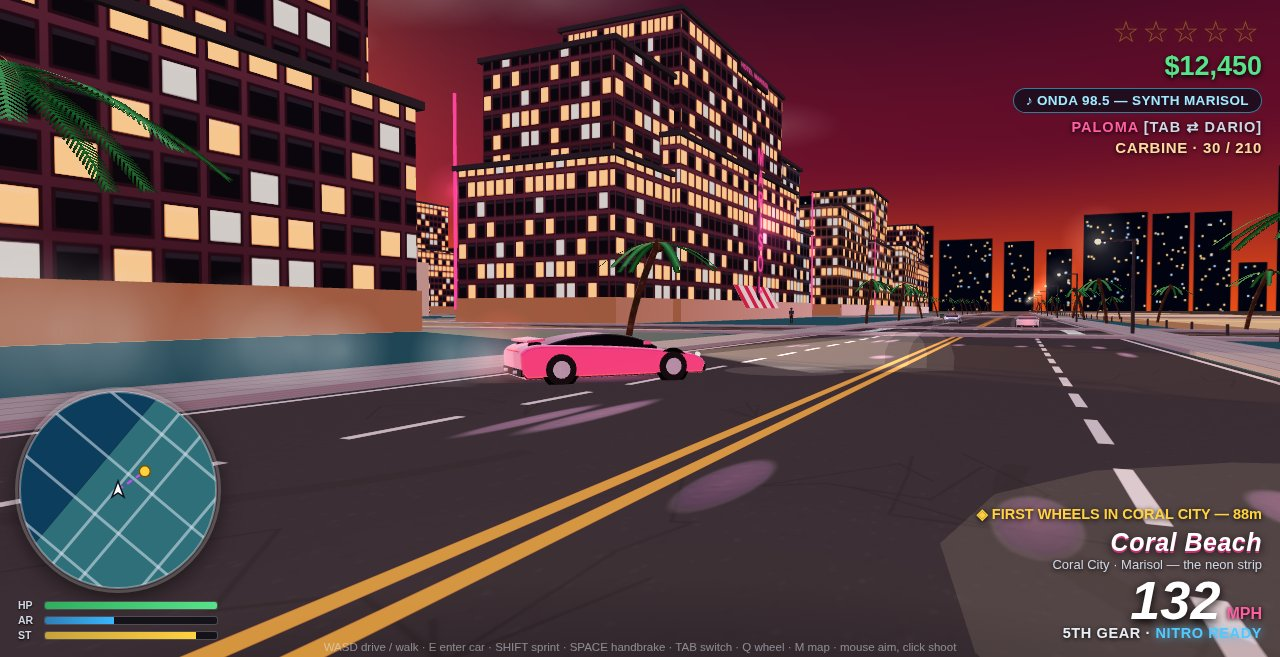
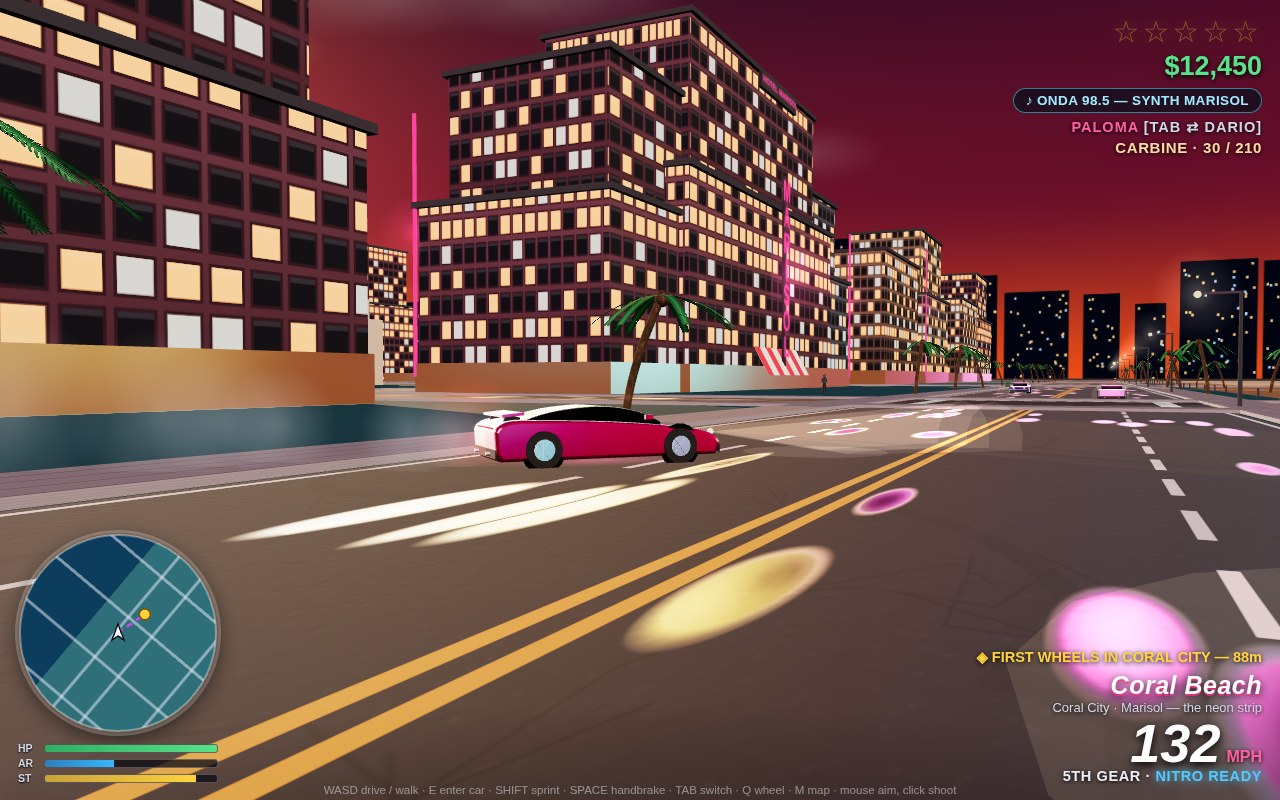
Reflections pass: PMREM-filtered neon environment (buildEnvironmentReflections) replaces the raw cube env; mirror-grade puddles, hotter neon env cards, paint/road envMapIntensity retune — neon now reads on clearcoat and wet asphalt in cover + chase

diff --git a/game/src/world.js b/game/src/world.js
@@ -49,15 +49,15 @@ function asphaltSet() {
     g.stroke();
   }
   // puddles: slightly dark on the colour map, low roughness on the rough map (damp sheen)
-  for (let i = 0; i < 10; i++) {
-    const x = rnd() * 1024, y = 90 + rnd() * 844, rx = 26 + rnd() * 58, ry = 10 + rnd() * 16;
+  for (let i = 0; i < 16; i++) {
+    const x = rnd() * 1024, y = 90 + rnd() * 844, rx = 44 + rnd() * 76, ry = 14 + rnd() * 22;
     g.save(); g.translate(x, y); g.scale(1, ry / rx); g.translate(-x, -y);
     const gr = g.createRadialGradient(x, y, 2, x, y, rx);
     gr.addColorStop(0, 'rgba(16,20,28,0.5)'); gr.addColorStop(1, 'rgba(16,20,28,0)');
     g.fillStyle = gr; g.beginPath(); g.arc(x, y, rx, 0, 7); g.fill(); g.restore();
     rg.save(); rg.translate(x, y); rg.scale(1, ry / rx); rg.translate(-x, -y);
     const rr = rg.createRadialGradient(x, y, 2, x, y, rx);
-    rr.addColorStop(0, 'rgb(58,58,58)'); rr.addColorStop(0.7, 'rgb(95,95,95)'); rr.addColorStop(1, 'rgb(168,168,168)');
+    rr.addColorStop(0, 'rgb(16,16,16)'); rr.addColorStop(0.7, 'rgb(52,52,52)'); rr.addColorStop(1, 'rgb(168,168,168)');
     rg.fillStyle = rr; rg.beginPath(); rg.arc(x, y, rx, 0, 7); rg.fill(); rg.restore();
   }
   // markings (v axis = across the road): solid edges, dashed lane lines, double yellow centre
@@ -213,28 +213,43 @@ const MOODS = {
 };
 MOODS.evening = MOODS.dusk;
 
+/* ---------------- PMREM neon environment ---------------- */
+// A tiny dedicated env scene (sunset gradient dome, dark ground, a ring of hot neon
+// cards and one warm sunset blaze) run through PMREMGenerator, so car clearcoat,
+// glass and the wet asphalt pick up soft, blurred NEON reflections — not a raw cube.
+export function buildEnvironmentReflections(renderer, scene) {
+  const env = new THREE.Scene();
+  const [c, g] = cnv(64, 256);
+  const gr = g.createLinearGradient(0, 0, 0, 256);
+  gr.addColorStop(0, '#2c2a5e'); gr.addColorStop(0.52, '#a83e70'); gr.addColorStop(0.78, '#ff9e4f'); gr.addColorStop(1, '#171114');
+  g.fillStyle = gr; g.fillRect(0, 0, 64, 256);
+  const domeTex = tex(c); domeTex.wrapS = domeTex.wrapT = THREE.ClampToEdgeWrapping;
+  env.add(new THREE.Mesh(new THREE.SphereGeometry(60, 24, 16), new THREE.MeshBasicMaterial({ map: domeTex, side: THREE.BackSide })));
+  const gnd = new THREE.Mesh(new THREE.CircleGeometry(58, 24), new THREE.MeshBasicMaterial({ color: 0x0b0d13 }));
+  gnd.rotation.x = -Math.PI / 2; gnd.position.y = -3; env.add(gnd);
+  const card = (w, h, x, y, z, rgb) => {
+    const m = new THREE.Mesh(new THREE.PlaneGeometry(w, h), new THREE.MeshBasicMaterial({ side: THREE.DoubleSide }));
+    m.material.color.setRGB(rgb[0], rgb[1], rgb[2]);
+    m.position.set(x, y, z); m.lookAt(0, y, 0); env.add(m);
+  };
+  const NEON = [[11, 0.8, 5.4], [0.6, 8.6, 10], [11, 6.7, 0.6], [9, 1.4, 7], [0.8, 10, 8.3], [10, 5.4, 1.1]];
+  for (let i = 0; i < 12; i++) {
+    const a = (i / 12) * Math.PI * 2, r = 42;
+    card(7 + (i % 3) * 3, 13 + (i % 4) * 4, Math.cos(a) * r, 7 + (i % 3) * 3, Math.sin(a) * r, NEON[i % NEON.length]);
+  }
+  card(46, 15, -34, 5.5, -21, [12, 8.2, 4.8]); // sunset blaze, toward the mood sun direction
+  const pmrem = new THREE.PMREMGenerator(renderer);
+  scene.environment = pmrem.fromScene(env, 0.04).texture;
+  pmrem.dispose();
+}
+
 /* ---------------- the build ---------------- */
 export function buildProceduralCoralCity(scene, rng) {
   const colliders = [];
   const addCollider = (x0, z0, x1, z1) => colliders.push({ x0, z0, x1, z1 });
   const dyn = { winMats: [], lampGlow: null, lampPool: null, water: null, clouds: [], neonSigns: [] };
 
-  // soft studio-sky reflections for paint, glass and wet stone (canvas cube, no network)
-  {
-    const faces = [];
-    for (let i = 0; i < 6; i++) {
-      const [c, g] = cnv(64, 64);
-      const gr = g.createLinearGradient(0, 0, 0, 64);
-      if (i === 2) { gr.addColorStop(0, '#ffe0b0'); gr.addColorStop(1, '#c86a8a'); }
-      else if (i === 3) { gr.addColorStop(0, '#141824'); gr.addColorStop(1, '#0a0c12'); }
-      else { gr.addColorStop(0, '#7a5aa8'); gr.addColorStop(0.55, '#c85a7a'); gr.addColorStop(1, '#ff9e4f'); }
-      g.fillStyle = gr; g.fillRect(0, 0, 64, 64);
-      faces.push(c);
-    }
-    const cube = new THREE.CubeTexture(faces);
-    cube.needsUpdate = true;
-    scene.environment = cube;
-  }
+  // reflections: scene.environment comes from buildEnvironmentReflections (PMREM neon env, main.js)
 
   // sky dome: gradient + sun disc in one shader
   const skyUni = {
@@ -345,8 +360,8 @@ export function buildProceduralCoralCity(scene, rng) {
 
   /* ---- roads: wet asphalt tiles with markings following each segment ---- */
   const asphalt = asphaltSet();
-  const roadMat = new THREE.MeshStandardMaterial({ map: asphalt.map, roughnessMap: asphalt.rough, roughness: 1.0, metalness: 0.32, bumpMap: asphalt.bump, bumpScale: 0.6, envMapIntensity: 0.9 });
-  const plainAsphalt = new THREE.MeshStandardMaterial({ color: 0x2a2b30, roughness: 0.6, metalness: 0.25, envMapIntensity: 0.6 });
+  const roadMat = new THREE.MeshStandardMaterial({ map: asphalt.map, roughnessMap: asphalt.rough, roughness: 1.0, metalness: 0.32, bumpMap: asphalt.bump, bumpScale: 0.6, envMapIntensity: 1.25 });
+  const plainAsphalt = new THREE.MeshStandardMaterial({ color: 0x2a2b30, roughness: 0.6, metalness: 0.25, envMapIntensity: 0.45 });
   function roadStrip(len, wid, x, z, alongX) {
     const geo = new THREE.PlaneGeometry(len, wid);
     const uv = geo.attributes.uv;

diff --git a/game/src/main.js b/game/src/main.js
@@ -7,7 +7,7 @@ import { GAME_TITLE, SAVE_KEY, STEP, TUNING, RADIO_STATIONS, WEAPONS } from './c
 import { createRandom } from './random.js';
 import { createInput } from './input.js';
 import { initProceduralWebAudioEngine } from './audio.js';
-import { buildProceduralCoralCity, districtAt, roadGraph } from './world.js';
+import { buildProceduralCoralCity, buildEnvironmentReflections, districtAt, roadGraph } from './world.js';
 import { createVehicle, createTraffic, updateVehicleArcadePhysics } from './vehicles.js';
 import { PROTAGONISTS, createPersonMesh, createPedestrians, updateThirdPersonCharacter, updateEffects, bindProtagonistSwitch, switchActiveProtagonist } from './people.js';
 import { createWantedState, updateWantedHeatSystem, createPoliceFleet, updatePolicePursuitAI } from './police.js';
@@ -29,6 +29,7 @@ renderer.outputColorSpace = THREE.SRGBColorSpace;
 document.getElementById('app').appendChild(renderer.domElement);
 
 const scene = new THREE.Scene();
+buildEnvironmentReflections(renderer, scene);
 const camera = new THREE.PerspectiveCamera(62, window.innerWidth / window.innerHeight, 0.1, 6000);
 camera.position.set(430, 6, -20);
 window.addEventListener('resize', () => {

diff --git a/game/src/vehicles.js b/game/src/vehicles.js
@@ -93,7 +93,7 @@ function buildWheel() {
 export function createDetailedVehicleMesh(type, color) {
   const spec = VEHICLE_CATALOG[type] || VEHICLE_CATALOG.sedan;
   const grp = new THREE.Group();
-  const paint = new THREE.MeshPhysicalMaterial({ color: color ?? spec.color, metalness: 0.85, roughness: 0.15, clearcoat: 1, clearcoatRoughness: 0.08, envMapIntensity: 1.15 });
+  const paint = new THREE.MeshPhysicalMaterial({ color: color ?? spec.color, metalness: 0.85, roughness: 0.15, clearcoat: 1, clearcoatRoughness: 0.08, envMapIntensity: 1.45 });
   const { body, glass, roofPanel } = profiles(type);
   const W = spec.width - 0.18, L = spec.length;
   const bodyMesh = new THREE.Mesh(extrudeProfile(body, W), paint);
